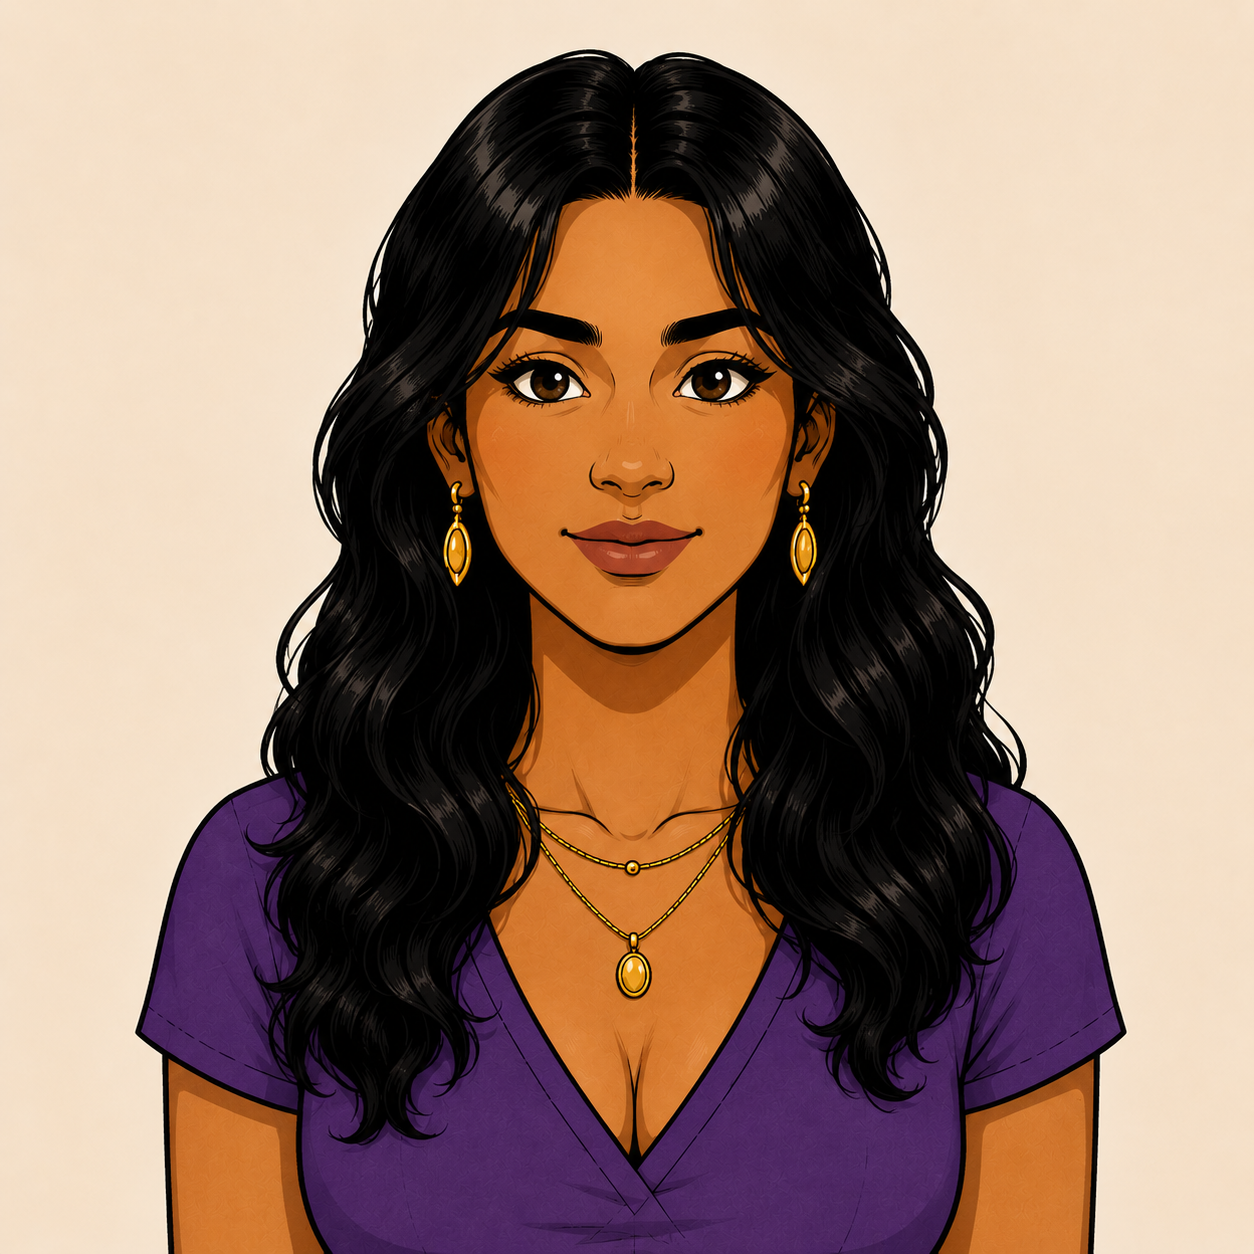
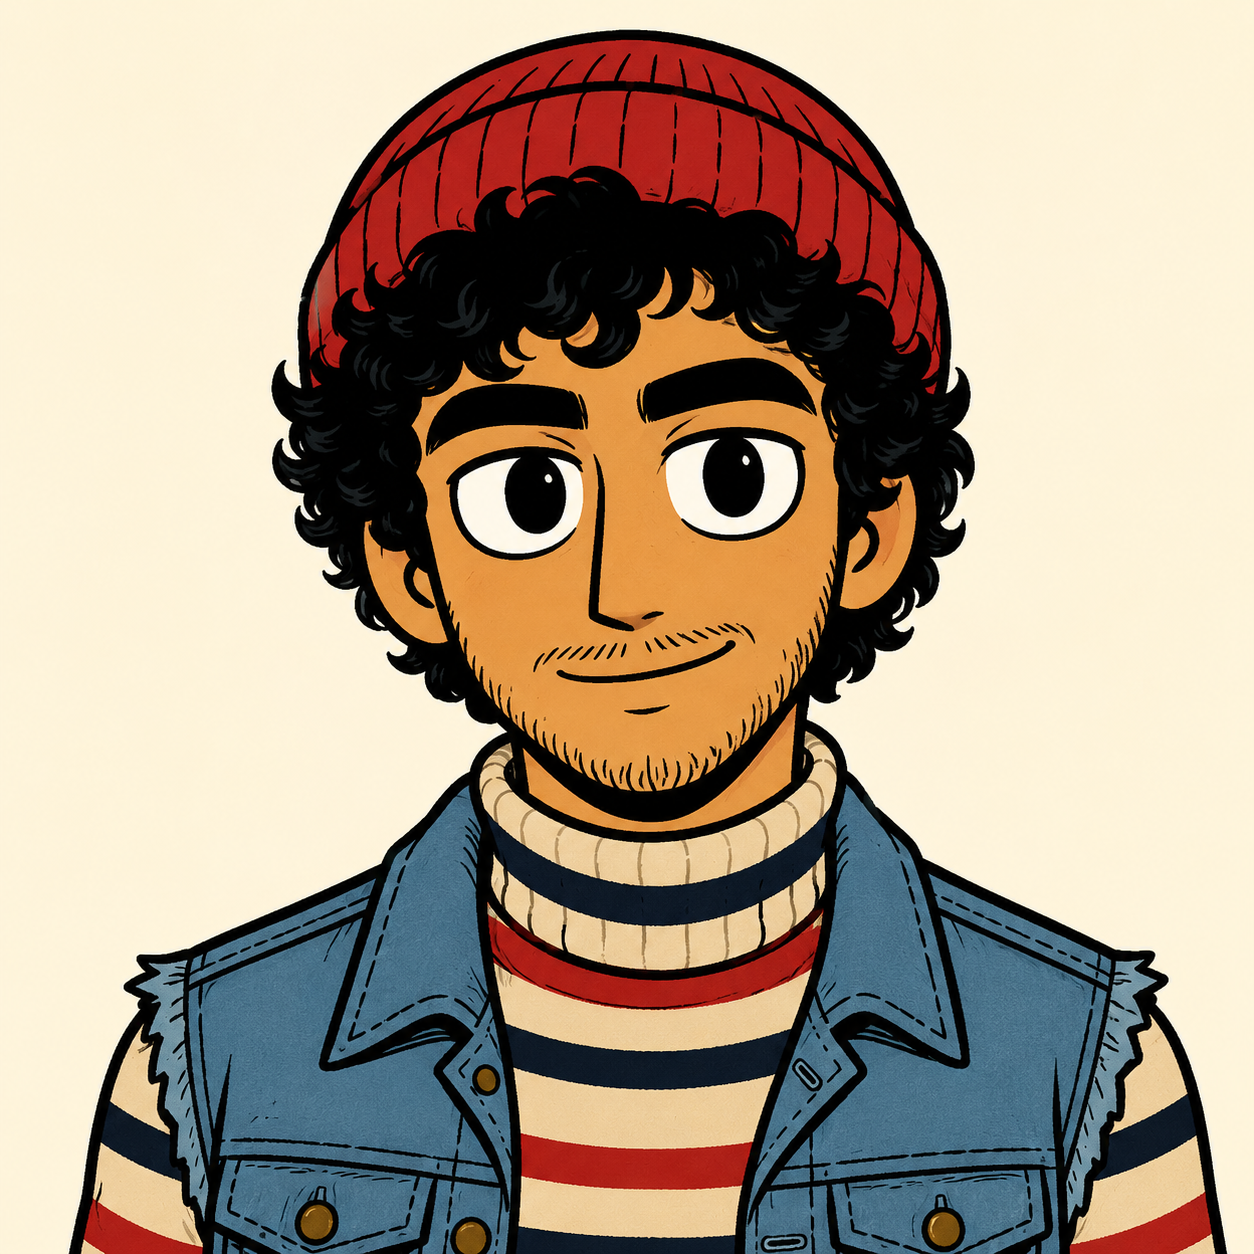
updated character style to scott pilgrim

diff --git a/src/api/openai.ts b/src/api/openai.ts
@@ -1191,10 +1191,10 @@ export function buildCharacterProfileEditPrompt(adjustments: {
 
 export function buildComicHeadshotPrompt(): string {
   return [
-    'Redraw this photo as a comic book style character portrait headshot.',
+    'Redraw this photo as an abstract comic book style character portrait headshot (style: Scott Pilgrim comic style).',
     'Clean portrait composition: head and shoulders only, facing directly forward toward the camera, simple neutral background.',
-    'Impressionist comic book illustration style: clean linework with symbolic and exaggerated expressions without realistic detail.',
-    "Preserve the person's general likeness: facial structure, skin tone, hairstyle and color, and any glasses or accessories visible in the photo.",
+    'Impressionist comic book illustration style: clean linework with symbolic facial features reminiscient of American indie comics and Japanese manga, like Scott Pilgrim.',
+    "Preserve the person's general likeness: skin tone, hairstyle and color, and any glasses or accessories visible in the photo. Do NOT include details such as realistic teeth or shading.",
     'Do NOT change the framing to a full-body shot, action scene, or storyboard panel.'
   ].join('\n\n');
 }

diff --git a/src/api/images.ts b/src/api/images.ts
@@ -247,7 +247,8 @@ export async function generateComicHeadshotFromPhoto(
   const image = await generateStoryboardImage({
     prompt: imagePrompt,
     referenceImage: refDataUrl,
-    applyNoText: true
+    applyNoText: true,
+    provider: 'openai'
   });
 
   return { image, imagePrompt };

diff --git a/src/data/characterHeadshots.ts b/src/data/characterHeadshots.ts
@@ -3,7 +3,7 @@ export type CharacterHeadshot = {
   image: string;
 };
 
-const HEADSHOT_COUNT = 8;
+const HEADSHOT_COUNT = 12;
 
 export const CHARACTER_HEADSHOTS: CharacterHeadshot[] = Array.from(
   { length: HEADSHOT_COUNT },
